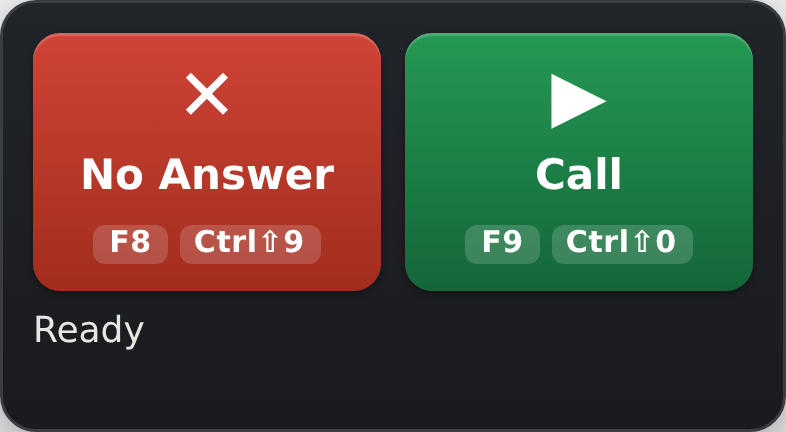
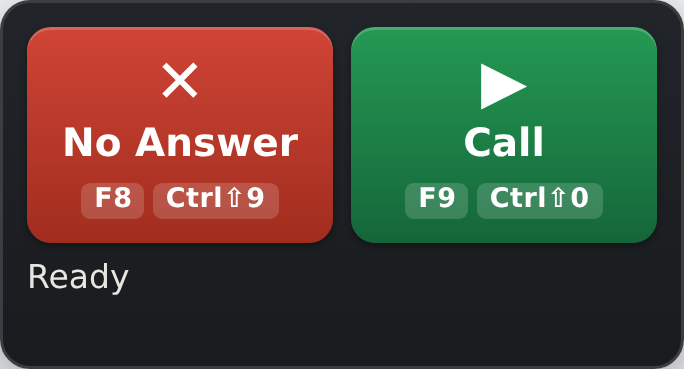
Condense the overlay: about a third shorter and narrower
Everything the overlay draws is smaller and tighter, with no part of it
removed. The row that sets the height is bounded from below by the rail
— five buttons and their gaps — so the icons came down to 19px, which
let PANEL_HEIGHT go 184 → 120 and took the pane with it. Widths follow:
the button column 240 → 210, the pane 300 → 280, and the box padding,
the gaps between the bands and the gaps inside them all a notch smaller.

Type is a step down throughout — the box 12 → 11px, the transcript 13 →
12, the button glyph 24 → 20 and its label 14 → 13, the keycaps,
timestamps, LIVE bar and save pill each a point smaller — so the density
comes from the type as well as the boxes rather than from cramming the
old sizes together.

    transcription off  262 x 144  ->  228 x 123
    transcript         606 x 229  ->  541 x 158
    folded             298 x 229  ->  255 x 158
    (each 25px taller with a contact alert)

Claude-Session: https://claude.ai/code/session_0152a9fRpzY9pHsPsC3E54yZ

diff --git a/extension/content.js b/extension/content.js
@@ -228,22 +228,28 @@
   // line, a contact alert appearing, a talkative prospect — is allowed to move
   // them. That is why the alert keeps its space even when there is no alert,
   // and why these are constants rather than whatever the content needs.
-  const CONTROLS_WIDTH = 240;   // the button column, unchanged whatever else is shown
-  const TRANSCRIPT_WIDTH = 300;
-  const PANEL_HEIGHT = 184;     // the buttons, the pane and the rail: one row, one height
-  const STACK_GAP = 6;
-  const RAIL_GAP = 8;
+  const CONTROLS_WIDTH = 210;   // the button column, unchanged whatever else is shown
+  const TRANSCRIPT_WIDTH = 280;
+  const PANEL_HEIGHT = 120;     // the buttons, the pane and the rail: one row, one height
+  const BOX_PAD = 8;
+  const MAIN_GAP = 8;           // between the button column and the pane
+  const STACK_GAP = 5;          // between the alert, the row and the status
+  const RAIL_GAP = 6;           // between the pane and its rail
+  const ICON = 19;              // the rail's square buttons
+  // Five rail buttons and their gaps have to fit PANEL_HEIGHT, which is what
+  // stops the pane shrinking further.
+  const RAIL_ICON_GAP = 3;
   // Reserved, never measured — that is what stops a long "Stopped: …" moving
   // the buttons. Beside a transcript the box is wide enough for any of them on
-  // one line; on its own it is 240px, where the long ones need two. Either way
+  // one line; on its own it is 210px, where the long ones need two. Either way
   // the tooltip carries whatever still does not fit.
-  const STATUS_ONE_LINE = 17;
-  const STATUS_TWO_LINES = 30;
+  const STATUS_ONE_LINE = 15;
+  const STATUS_TWO_LINES = 28;
   // With a transcript beside them the buttons stretch to meet it — same column
   // width, the pane's full height. With nothing to match they stay short: tall
   // enough for the glyph, the label and the keycaps and no taller, so the
   // dialer-only overlay is the smallest thing that still says what it does.
-  const BUTTONS_SHORT = 86;
+  const BUTTONS_SHORT = 72;
 
   let alertEl;
   let overlayEl = null; // the box this copy of the script built, if any
@@ -360,11 +366,11 @@
       // A flow is running and clicks are being ignored, so the buttons say so
       // rather than sitting there looking live. Last, so it beats :hover.
       `#${OVERLAY_ID}.sl-busy .sl-act{filter:saturate(.4) brightness(.72);cursor:progress}`,
-      `#${OVERLAY_ID} .sl-key{background:rgba(255,255,255,.17);border-radius:4px;padding:1px 5px;font-size:10px;font-weight:600;letter-spacing:.02em;white-space:nowrap}`,
+      `#${OVERLAY_ID} .sl-key{background:rgba(255,255,255,.17);border-radius:3px;padding:1px 4px;font-size:9px;font-weight:600;letter-spacing:.02em;white-space:nowrap}`,
       // The small square buttons on the rail. Their resting look lives here so
       // that a highlight set inline — the save nudge, the paused state — can be
       // cleared back to it with an empty string.
-      `#${OVERLAY_ID} .sl-icon{background:transparent;border:1px solid #3a3d42;color:#e8e6e1;border-radius:7px;padding:0;font-size:11px;line-height:1;cursor:pointer;display:flex;align-items:center;justify-content:center;flex:0 0 auto;transition:background-color .12s ease,border-color .12s ease,transform .08s ease}`,
+      `#${OVERLAY_ID} .sl-icon{background:transparent;border:1px solid #3a3d42;color:#e8e6e1;border-radius:6px;padding:0;font-size:10px;line-height:1;cursor:pointer;display:flex;align-items:center;justify-content:center;flex:0 0 auto;transition:background-color .12s ease,border-color .12s ease,transform .08s ease}`,
       `#${OVERLAY_ID} .sl-icon:hover{background:#2f3238;border-color:#5a5e66}`,
       `#${OVERLAY_ID} .sl-icon:active{transform:translateY(1px)}`,
       `#${OVERLAY_ID} .sl-pill{transition:filter .12s ease}`,
@@ -382,15 +388,15 @@
     b.type = 'button';
     b.title = `${label} — ${keys.join(' or ')}`;
     b.innerHTML =
-      `<span style="font-size:24px;line-height:1">${glyph}</span>` +
-      `<span style="font-size:14px;font-weight:600;line-height:1.15">${label}</span>` +
-      `<span style="display:flex;gap:4px">${keys
+      `<span style="font-size:20px;line-height:1">${glyph}</span>` +
+      `<span style="font-size:13px;font-weight:600;line-height:1.15">${label}</span>` +
+      `<span style="display:flex;gap:3px">${keys
         .map((k) => `<span class="sl-key">${k}</span>`)
         .join('')}</span>`;
     b.style.cssText = [
       'flex:1 1 0', 'min-width:0', 'height:100%', 'box-sizing:border-box',
       'display:flex', 'flex-direction:column', 'align-items:center', 'justify-content:center',
-      'gap:7px', 'padding:6px 8px', 'border:none', 'border-radius:9px',
+      'gap:5px', 'padding:5px 6px', 'border:none', 'border-radius:8px',
       'cursor:pointer', 'color:#fff', `background:${background}`,
       'box-shadow:inset 0 1px 0 rgba(255,255,255,.18),0 1px 2px rgba(0,0,0,.35)',
       'text-align:center', 'font-family:inherit',
@@ -419,8 +425,8 @@
       'box-sizing:border-box',
       'display:flex', 'flex-direction:column', `gap:${STACK_GAP}px`,
       'background:linear-gradient(180deg,#212429 0%,#191b1e 100%)',
-      'border:1px solid #3a3d42', 'border-radius:12px',
-      'padding:10px', 'font-family:system-ui,sans-serif', 'font-size:12px',
+      'border:1px solid #3a3d42', 'border-radius:10px',
+      `padding:${BOX_PAD}px`, 'font-family:system-ui,sans-serif', 'font-size:11px',
       'color:#e8e6e1',
       'box-shadow:0 6px 22px rgba(0,0,0,.42)', 'user-select:none',
     ].join(';');
@@ -438,14 +444,14 @@
       // Takes the box's width without setting it: a long tag must not be what
       // decides how wide the overlay is.
       'width:0', 'min-width:100%',
-      'padding:3px 8px', 'border:1px solid transparent', 'border-radius:6px',
-      'font-size:11px', 'font-weight:600', 'line-height:15px',
+      'padding:2px 7px', 'border:1px solid transparent', 'border-radius:5px',
+      'font-size:10px', 'font-weight:600', 'line-height:14px',
       'white-space:nowrap', 'overflow:hidden', 'text-overflow:ellipsis',
     ].join(';');
     box.appendChild(alertEl);
 
     const main = document.createElement('div');
-    main.style.cssText = 'display:flex;align-items:stretch;gap:10px;';
+    main.style.cssText = `display:flex;align-items:stretch;gap:${MAIN_GAP}px;`;
 
     // The buttons, the pane and the rail are one row at one height, so the
     // block reads as a block: the buttons finish exactly where the pane does
@@ -453,7 +459,7 @@
     const row = document.createElement('div');
     row.style.cssText = [
       `flex:0 0 ${CONTROLS_WIDTH}px`, `width:${CONTROLS_WIDTH}px`, 'box-sizing:border-box',
-      'display:flex', 'gap:8px',
+      'display:flex', 'gap:6px',
       `height:${hasTranscript ? PANEL_HEIGHT : BUTTONS_SHORT}px`,
     ].join(';');
 
@@ -470,14 +476,14 @@
     box.appendChild(main);
 
     // Under the whole box rather than inside the button column: a sentence
-    // reads better across the width than down 240px, and the row above keeps
+    // reads better across the width than down 210px, and the row above keeps
     // its full height instead of giving a third of it up to one word.
     statusEl = document.createElement('div');
     statusEl.style.cssText = [
       'flex:0 0 auto',
       `height:${hasTranscript ? STATUS_ONE_LINE : STATUS_TWO_LINES}px`,
       'box-sizing:border-box',
-      'color:#e8e6e1', 'line-height:15px', 'overflow-wrap:break-word',
+      'color:#e8e6e1', 'line-height:14px', 'overflow-wrap:break-word',
       'display:-webkit-box', `-webkit-line-clamp:${hasTranscript ? 1 : 2}`,
       '-webkit-box-orient:vertical', 'overflow:hidden',
     ].join(';');
@@ -506,7 +512,7 @@
     b.textContent = glyph;
     b.title = title;
     b.setAttribute('aria-label', title);
-    const side = size || 26;
+    const side = size || ICON;
     b.style.cssText = `width:${side}px;height:${side}px`;
     b.addEventListener('click', onClick);
     return b;
@@ -555,25 +561,25 @@
       'position:relative', `flex:0 0 ${TRANSCRIPT_WIDTH}px`, `width:${TRANSCRIPT_WIDTH}px`,
       `height:${PANEL_HEIGHT}px`, 'box-sizing:border-box',
       'display:flex', 'flex-direction:column',
-      'background:#141618', 'border:1px solid #3a3d42', 'border-radius:9px',
+      'background:#141618', 'border:1px solid #3a3d42', 'border-radius:8px',
       'overflow:hidden',
     ].join(';');
 
     const bar = document.createElement('div');
     bar.style.cssText = [
-      'display:flex', 'align-items:center', 'gap:7px', 'padding:5px 9px',
+      'display:flex', 'align-items:center', 'gap:6px', 'padding:3px 8px',
       'background:#26282c', 'border-bottom:1px solid #3a3d42', 'flex:0 0 auto',
     ].join(';');
 
     const dot = document.createElement('span');
-    dot.style.cssText = 'width:8px;height:8px;border-radius:50%;background:#6b6f76;flex:0 0 auto;';
+    dot.style.cssText = 'width:6px;height:6px;border-radius:50%;background:#6b6f76;flex:0 0 auto;';
 
     const connection = document.createElement('span');
-    connection.style.cssText = 'font-weight:600;letter-spacing:.05em;font-size:10px;color:#9aa0a6;';
+    connection.style.cssText = 'font-weight:600;letter-spacing:.05em;font-size:9px;color:#9aa0a6;';
     connection.textContent = 'OFFLINE';
 
     const timer = document.createElement('span');
-    timer.style.cssText = 'margin-left:auto;font-variant-numeric:tabular-nums;color:#9aa0a6;font-size:11px;';
+    timer.style.cssText = 'margin-left:auto;font-variant-numeric:tabular-nums;color:#9aa0a6;font-size:10px;';
     timer.textContent = '00:00';
 
     bar.appendChild(dot);
@@ -584,15 +590,15 @@
     list.style.cssText = [
       // Fills whatever the fixed pane height leaves: the pane is the size it is
       // whether the call has said one word or four hundred.
-      'flex:1 1 auto', 'min-height:0', 'overflow-y:auto', 'padding:8px 9px',
+      'flex:1 1 auto', 'min-height:0', 'overflow-y:auto', 'padding:6px 8px',
       // Read out of the corner of the eye mid-sentence, so it stays larger and
       // higher-contrast than the rest of the overlay.
-      'font-size:13px', 'line-height:1.45', 'user-select:text', 'cursor:text',
+      'font-size:12px', 'line-height:1.4', 'user-select:text', 'cursor:text',
       'overflow-wrap:break-word',
     ].join(';');
 
     const empty = document.createElement('div');
-    empty.style.cssText = 'color:#9aa0a6;font-size:12px;font-style:italic;';
+    empty.style.cssText = 'color:#9aa0a6;font-size:11px;font-style:italic;';
     empty.textContent = 'Waiting for the call to start…';
     list.appendChild(empty);
 
@@ -601,9 +607,9 @@
     hint.type = 'button';
     hint.textContent = '↓ New text';
     hint.style.cssText = [
-      'display:none', 'position:absolute', 'right:10px', 'bottom:8px',
-      'background:#3a3d42', 'color:#e8e6e1', 'border:none', 'border-radius:12px',
-      'padding:3px 9px', 'font-size:10px', 'cursor:pointer', 'font-family:inherit',
+      'display:none', 'position:absolute', 'right:8px', 'bottom:6px',
+      'background:#3a3d42', 'color:#e8e6e1', 'border:none', 'border-radius:10px',
+      'padding:2px 8px', 'font-size:9px', 'cursor:pointer', 'font-family:inherit',
       'box-shadow:0 2px 6px rgba(0,0,0,.4)',
     ].join(';');
     hint.addEventListener('click', () => {
@@ -632,7 +638,7 @@
       'display:flex', 'flex-direction:column', 'align-items:center',
       // The five buttons are centred against the pane they belong to, evenly
       // spaced and evenly inset top and bottom.
-      'justify-content:center', 'gap:8px',
+      'justify-content:center', `gap:${RAIL_ICON_GAP}px`,
       'flex:0 0 auto', `height:${PANEL_HEIGHT}px`,
     ].join(';');
 
@@ -643,7 +649,7 @@
     railDot.style.cssText = [
       'visibility:hidden', 'position:absolute', 'top:0', 'left:50%',
       'transform:translateX(-50%)',
-      'width:8px', 'height:8px', 'border-radius:50%', 'background:#6b6f76',
+      'width:6px', 'height:6px', 'border-radius:50%', 'background:#6b6f76',
     ].join(';');
 
     const toggle = iconButton('«', 'Hide transcript', toggleTranscriptView);
@@ -678,19 +684,19 @@
     if (entry.newCall && tx.list.childElementCount) {
       const divider = document.createElement('div');
       divider.style.cssText = [
-        'margin:10px 0 8px', 'border-top:1px solid #2c2f34', 'padding-top:6px',
-        'color:#6b6f76', 'font-size:10px', 'letter-spacing:.06em', 'text-transform:uppercase',
+        'margin:7px 0 5px', 'border-top:1px solid #2c2f34', 'padding-top:4px',
+        'color:#6b6f76', 'font-size:9px', 'letter-spacing:.06em', 'text-transform:uppercase',
       ].join(';');
       divider.textContent = 'Next call';
       tx.list.appendChild(divider);
     }
 
     const line = document.createElement('div');
-    line.style.cssText = 'margin-bottom:7px;';
+    line.style.cssText = 'margin-bottom:5px;';
 
     const time = document.createElement('span');
     time.style.cssText =
-      'color:#9aa0a6;font-size:11px;font-variant-numeric:tabular-nums;margin-right:6px;';
+      'color:#9aa0a6;font-size:10px;font-variant-numeric:tabular-nums;margin-right:5px;';
     time.textContent = window.slFormatClock(entry.start);
     if (entry.merged > 1) {
       // Coalesced under backpressure: the speech is all there, the timestamps

diff --git a/CLAUDE.md b/CLAUDE.md
@@ -142,7 +142,7 @@ When Salesloft ships UI changes, these are what break.
 - `killAndLog` sets the disposition **before** clicking "Log & Complete". Any failed step throws, surfaces "Stopped: … Finish manually.", and leaves the call unlogged — never log with a wrong or missing disposition.
 - A `busy` flag serializes flows; hotkeys and clicks are ignored while one runs.
 - In-page hotkeys are suppressed while typing (`isTyping()`).
-- **The overlay never moves or resizes with its content.** It is pinned bottom-left and stacked as three bands: the contact alert, the row, the status. The row carries everything the rep aims at — the button column a fixed 240px, the transcript pane a fixed 300px, and buttons, pane and rail all exactly `PANEL_HEIGHT`, so the three finish on the same line and transcript lines scroll rather than push anything around. The status is a full-width line **below** that row rather than a slice of the button column: a sentence reads better across the box than down 240px, and down there it has nothing to push. Its height is **reserved, not measured** — one line beside a transcript, where the box is wide enough for any status we write, two without one, and the tooltip carries the rest — which is what stops a long "Stopped: …" from shoving the buttons upward. The buttons stretch **vertically** to meet the pane and never widen: the pair keeps the column's width and splits it, so their left/right positions are identical with the transcript on, off or folded away. The contact alert is the one part that comes and goes on its own, so it is a full-width banner **above** that row — the overlay is anchored at its foot, so the banner grows the box upward and moves nothing (`width:0;min-width:100%` stops a long tag deciding the overlay's width). Hover and press effects are `filter`/`transform` only, for the same reason. The rail's live dot is positioned out of the flow for the same reason: in it, it would hold a slot that is empty whenever the pane is showing. Nothing else resizes the overlay but a deliberate click: transcription on or off (which adds the pane and the taller buttons), and minimising the pane (width only).
+- **The overlay never moves or resizes with its content.** It is pinned bottom-left and stacked as three bands: the contact alert, the row, the status. The row carries everything the rep aims at — the button column a fixed 210px, the transcript pane a fixed 280px, and buttons, pane and rail all exactly `PANEL_HEIGHT`, so the three finish on the same line and transcript lines scroll rather than push anything around. The status is a full-width line **below** that row rather than a slice of the button column: a sentence reads better across the box than down 210px, and down there it has nothing to push. Its height is **reserved, not measured** — one line beside a transcript, where the box is wide enough for any status we write, two without one, and the tooltip carries the rest — which is what stops a long "Stopped: …" from shoving the buttons upward. The buttons stretch **vertically** to meet the pane and never widen: the pair keeps the column's width and splits it, so their left/right positions are identical with the transcript on, off or folded away. The contact alert is the one part that comes and goes on its own, so it is a full-width banner **above** that row — the overlay is anchored at its foot, so the banner grows the box upward and moves nothing (`width:0;min-width:100%` stops a long tag deciding the overlay's width). Hover and press effects are `filter`/`transform` only, for the same reason. The rail's live dot is positioned out of the flow for the same reason: in it, it would hold a slot that is empty whenever the pane is showing. Nothing else resizes the overlay but a deliberate click: transcription on or off (which adds the pane and the taller buttons), and minimising the pane (width only).
 - **Minimising hides the pane, not the transcript.** The rail survives it, so pause/copy/save/clear and a live indicator stay reachable and no captured line is lost; capture itself is untouched. The flag lives in `txView` rather than storage, so it survives an overlay rebuild (a settings toggle, a stale copy being replaced) but not a page reload.
 - **Nothing renders over the Salesloft page.** The contact alert appears only in the floating panel and as the tinted line inside the overlay (`window.__slOnContactAlert`); do not bring back a floating toast.
 - **The overlay belongs to a contact, not to Salesloft.** It is drawn only where one person is on screen — `slIsContactUrl()` in `defaults.js` matches the route (`/app/people/{id}` and friends, never the People list), and `content.js` falls back to the DOM (`[data-testid="popout-logger-container"]`, `person-detail*`) so the logger popout keeps the buttons wherever the rep dialled from. Salesloft is a single-page app, so `syncOverlay()` re-decides on every re-render rather than once at injection, and it never removes the overlay while `busy` — a flow mid-way through logging a call keeps its status line.
